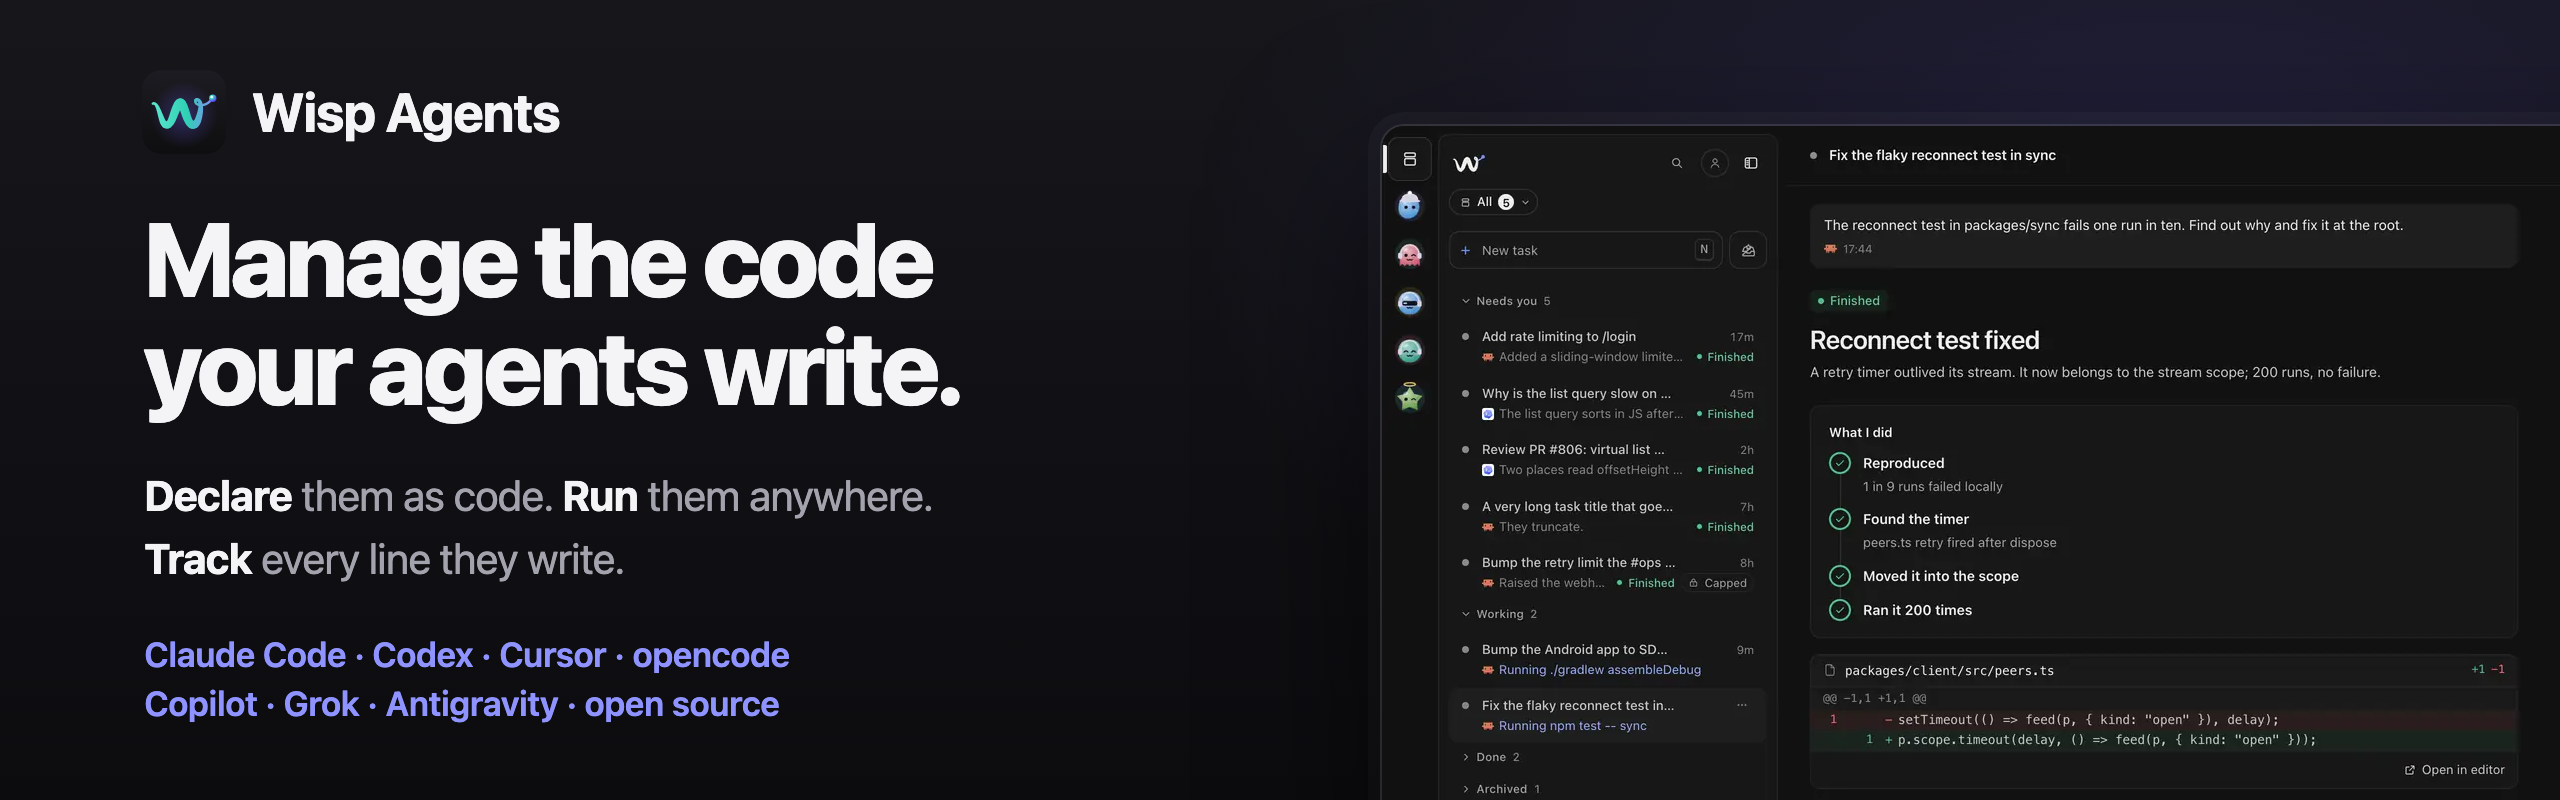
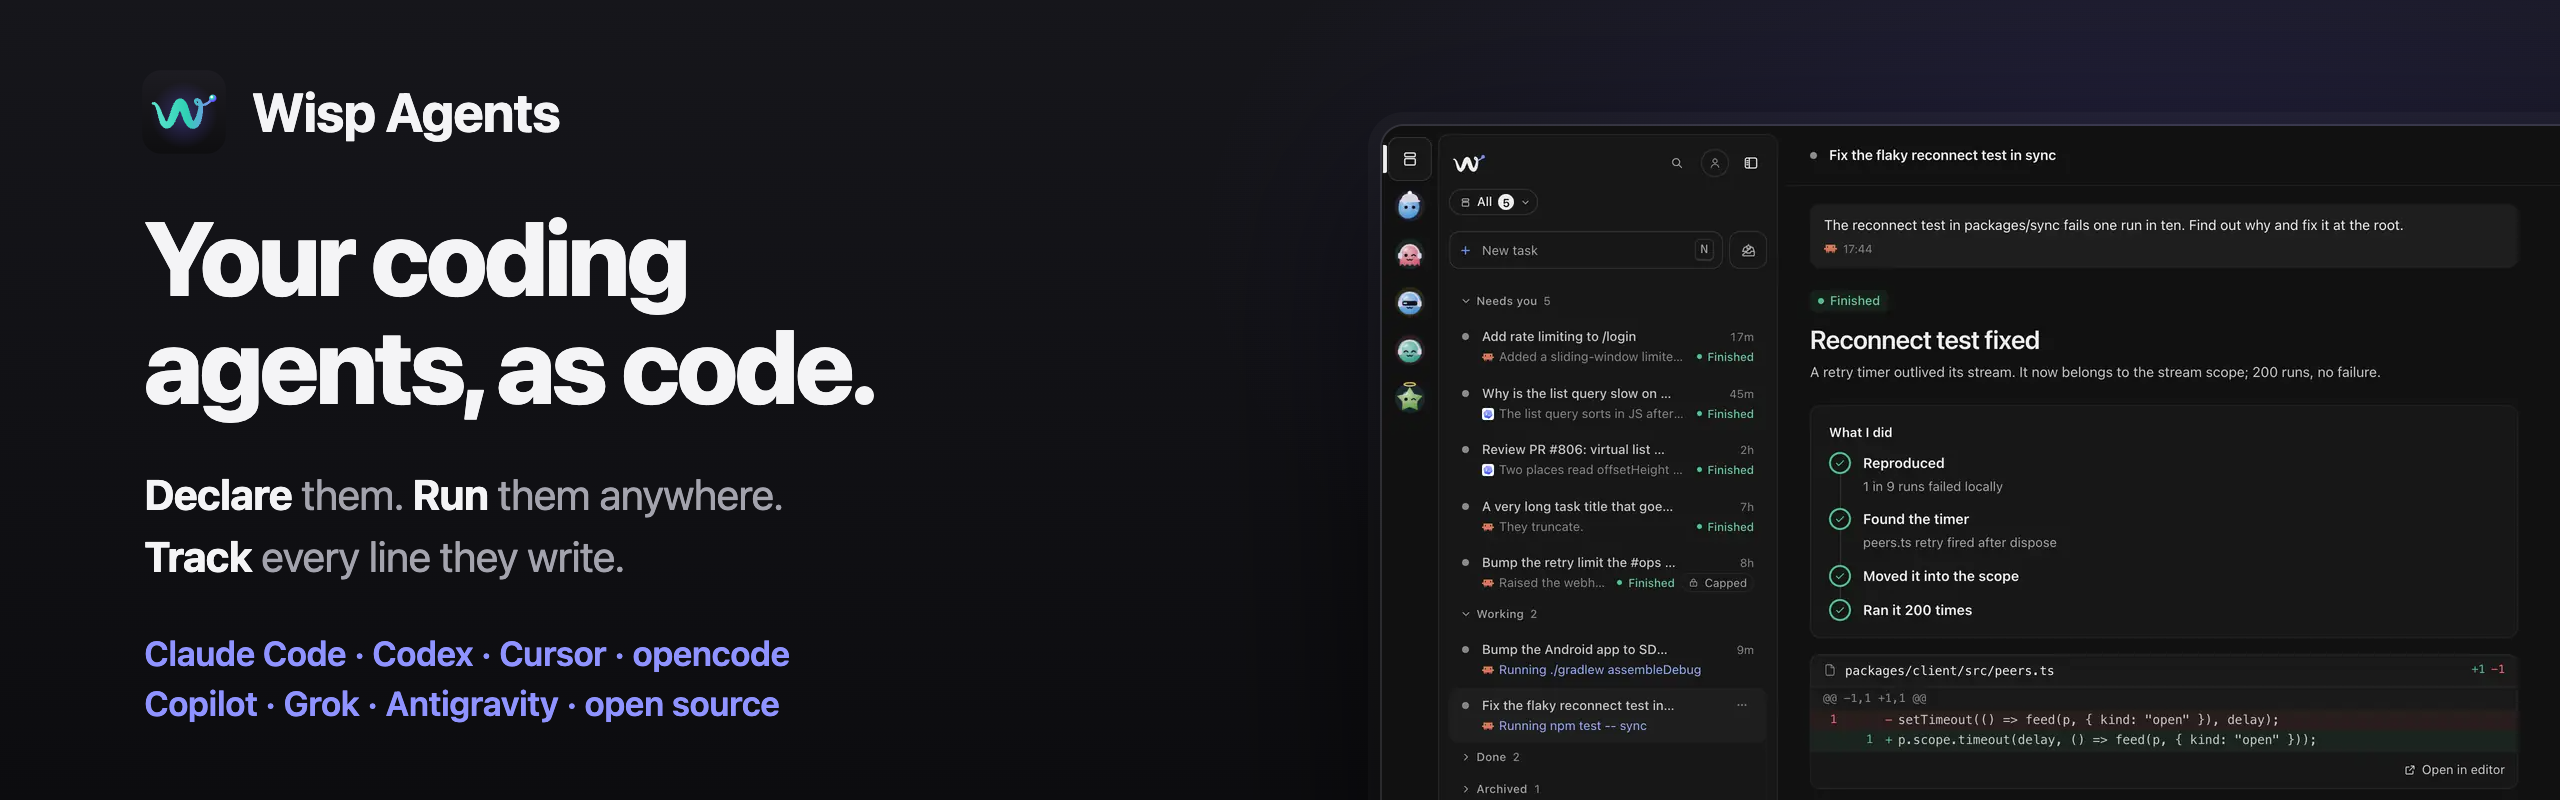
profile: headline 'Your coding agents, as code.'

diff --git a/profile/assets/banner.html b/profile/assets/banner.html
@@ -15,7 +15,7 @@ p b{color:#f4f4f6;font-weight:700}
 <img class="shot" src="app.webp" alt="">
 <div class="wrap">
  <div class="brand"><img src="icon.svg" alt=""><b>Wisp Agents</b></div>
- <h1>Manage the code<br>your agents write.</h1>
- <p><b>Declare</b> them as code. <b>Run</b> them anywhere.<br><b>Track</b> every line they write.</p>
+ <h1>Your coding<br>agents, as code.</h1>
+ <p><b>Declare</b> them. <b>Run</b> them anywhere.<br><b>Track</b> every line they write.</p>
  <div class="h">Claude Code · Codex · Cursor · opencode<br>Copilot · Grok · Antigravity · open source</div>
 </div></body></html>

diff --git a/profile/README.md b/profile/README.md
@@ -1,5 +1,5 @@
 <p align="center">
-  <a href="https://trywisp.dev/"><img src="assets/banner-v2.png" alt="Wisp Agents: manage the code your agents write" width="100%"></a>
+  <a href="https://trywisp.dev/"><img src="assets/banner-v2.png" alt="Wisp Agents: your coding agents, as code" width="100%"></a>
 </p>
 
 <p align="center">
@@ -11,7 +11,7 @@
   <a href="https://x.com/trywispagents">@trywispagents</a>
 </p>
 
-We are **Wisp Agents** ([trywisp.dev](https://trywisp.dev/)). We build wisp, an app that manages the code your coding agents write, and the small tools around it, for people who run coding agents all day. All of it is free and open source.
+We are **Wisp Agents** ([trywisp.dev](https://trywisp.dev/)). We build wisp (your coding agents, as code) and the small tools around it, for people who run coding agents all day. All of it is free and open source.
 
 ### Wisp Agents
 
